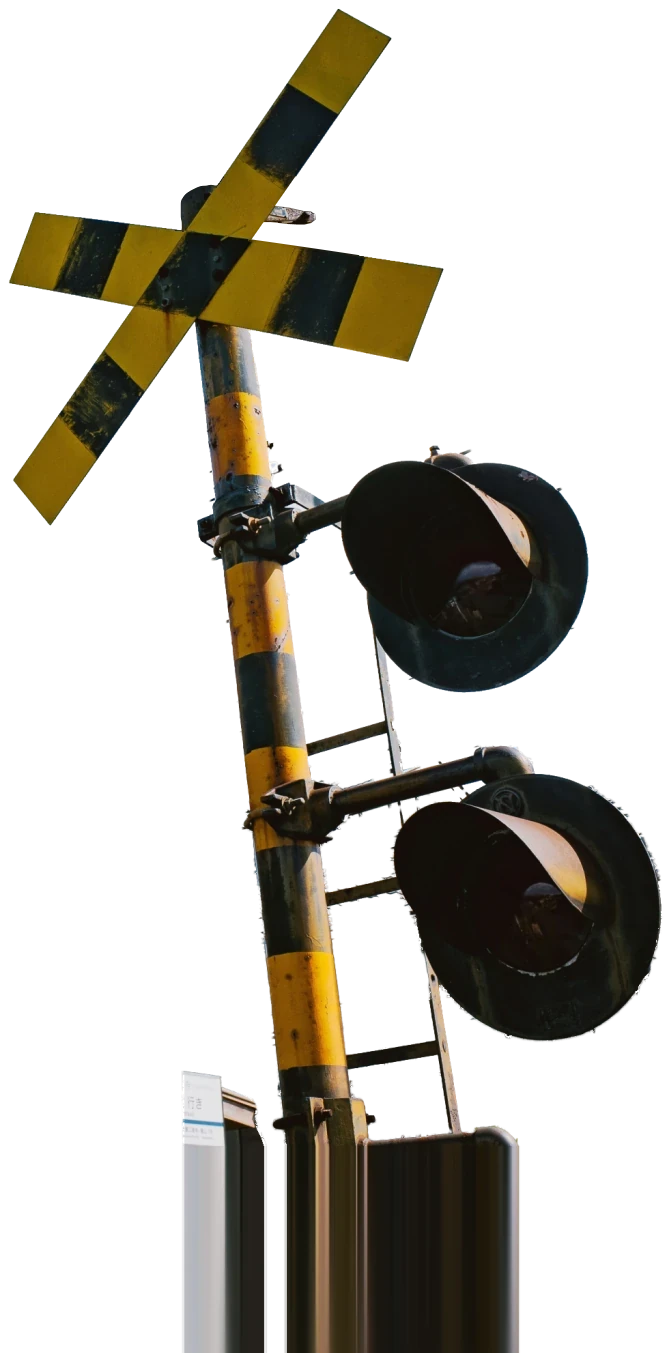
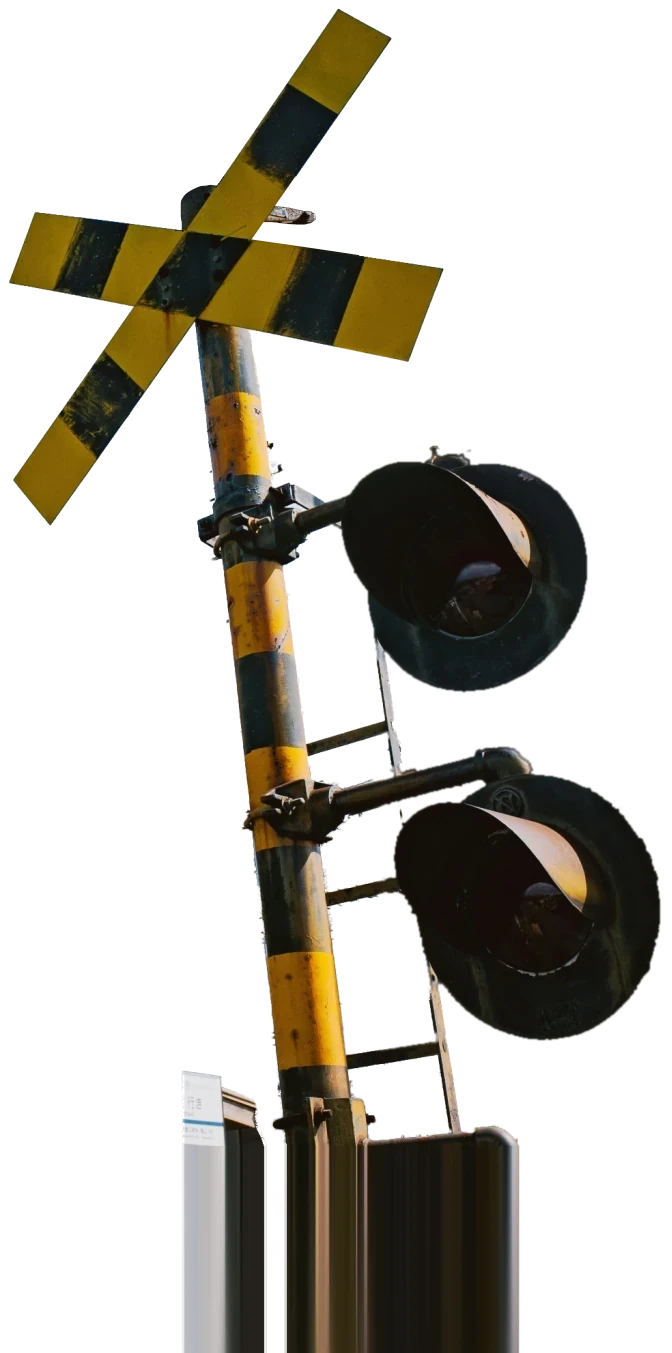
Lab: climb crossing round 1
Claude-Session: https://claude.ai/code/session_01RqENhngNCzDFmJWDZueXGV

diff --git a/tools/depth/bakes/crossing/cumulus.py b/tools/depth/bakes/crossing/cumulus.py
@@ -179,6 +179,16 @@ CLOSE_R, ERODE, FEATHER = 6, 5, (1.6, 2.2)
 # edge, so the outline is carved into the cloud and never pushed out past
 # the HDRI's own texture.
 LOBES = ((70.0, 1.0, 3), (30.0, 1.0, 4), (12.0, 0.95, 5))
+# The tower's lower right (east of RIGHT_LON, under RIGHT_LAT, deg, both
+# eased) faces the sun but is a straight cut and a plumb flank: its outline is
+# rebuilt too, from RIGHT_LOBES, each lobe's seat wandering RIGHT_JIT of its
+# radius in or out, so the side steps down in rounded billows; first it is
+# tapered (RIGHT_TAPER: from lat, to lat, deg in), so it steps in toward the
+# base instead of dropping plumb.
+RIGHT_LON, RIGHT_LAT = (147.0, 150.0), (29.0, 31.0)
+RIGHT_LOBES = ((95.0, 1.15, 13), (40.0, 1.0, 14), (15.0, 0.95, 15))
+RIGHT_JIT = 0.45
+RIGHT_TAPER = (30.0, 20.5, 4.5)
 # FLAT_K, FLAT_D, FLAT_LON: the hazy tail cut off the tower's lower left (see
 # the silhouette); only west of FLAT_LON, where the tail is
 FLAT_K, FLAT_D, FLAT_LON = 0.45, 60, 139.0
@@ -202,11 +212,14 @@ TONE_GAMMA = 1.0  # <1 lifts the mid tones toward the lit white
 # tower (SUN_XY: weight of across, to the right, and of up, both 0..1 over
 # the tower's own extent), its relief facing the sun and its own brightness
 # (SUN_REL, SUN_T), is eased between SUNLIT; the rest of the tower takes its
-# tone in skylight shade, SHADE_T on the ramp (its billows kept), deeper
-# by SHADE_LOW toward its base.
+# tone in skylight shade: each billow a skylight-blue core (SHADE_CORE on the
+# ramp) with a lit crest (SHADE_LIT) and a deeper hollow (SHADE_DEEP), from
+# the HDRI's own billows at full local contrast (SHADE_BANDS), the core
+# deeper by SHADE_LOW toward the base.
 SUN_XY, SUN_REL, SUN_T = (0.6, 0.9), 0.35, 0.25
 SUNLIT = (1.0, 1.4)
-SHADE_T, SHADE_LOW = (0.0, 0.27), 0.4
+SHADE_CORE, SHADE_LIT, SHADE_DEEP, SHADE_LOW = 0.13, 0.4, 0.13, 0.07
+SHADE_BANDS, SHADE_GAIN, SHADE_FLOOR = ((60.0, 0.55), (24.0, 0.3), (8.0, 0.15)), 0.7, 0.03
 CRISP_SIG, CRISP = (1.5, 5.0, 16.0), (0.35, 0.35, 0.15)
 # The tower's own form, lit from the sun (up and right, as in the photo): its
 # silhouette's relief, so the lobes the outline gains are modelled, and the
@@ -440,41 +453,69 @@ if WORK:
 m = ((ae > 0.5) & ~cut).astype(np.uint8)
 m = cv2.morphologyEx(m, cv2.MORPH_OPEN, disk(10))
 del tex, edge_d, cut
-for R, inset, seed in LOBES:
-    rng = np.random.default_rng(seed)
-    hs = cv2.GaussianBlur(m.astype(np.float32), (0, 0), R / 2)
-    nx_ = cv2.Sobel(hs, cv2.CV_32F, 1, 0, ksize=3)
-    ny_ = cv2.Sobel(hs, cv2.CV_32F, 0, 1, ksize=3)
-    nn = np.sqrt(nx_ * nx_ + ny_ * ny_) + 1e-6
-    # (the pockets of sky inside the cloud keep their own shape: only the
-    # outer edge is rebuilt)
-    fl = np.pad(m, 1).copy()
-    cv2.floodFill(fl, np.zeros((fl.shape[0] + 2, fl.shape[1] + 2), np.uint8), (0, 0), 2)
-    pocket = fl[1:-1, 1:-1] == 0
-    lob = cv2.erode((m | pocket).astype(np.uint8), disk(int(R * 0.9)))
-    cs, _ = cv2.findContours(m, cv2.RETR_EXTERNAL, cv2.CHAIN_APPROX_NONE)
-    for c in cs:
-        c = c[:, 0, :]
-        if len(c) < 8:
-            continue
-        seg = np.sqrt((np.diff(c, axis=0, append=c[:1]) ** 2).sum(1))
-        arc = np.concatenate([[0.0], np.cumsum(seg)[:-1]])
-        nxt = rng.uniform(0, R)
-        for i in range(len(c)):
-            if arc[i] < nxt:
+
+
+def lobed(m, w, lobes, jit=0.0):
+    """Rebuild the outer edge of m (uint8) where w is high as a chain of round
+    lobes (lobes: radius, inset, seed per scale; jit: how far each lobe's
+    seat wanders deeper in or out, as a share of its radius)."""
+    for R, inset, seed in lobes:
+        rng = np.random.default_rng(seed)
+        hs = cv2.GaussianBlur(m.astype(np.float32), (0, 0), R / 2)
+        nx_ = cv2.Sobel(hs, cv2.CV_32F, 1, 0, ksize=3)
+        ny_ = cv2.Sobel(hs, cv2.CV_32F, 0, 1, ksize=3)
+        nn = np.sqrt(nx_ * nx_ + ny_ * ny_) + 1e-6
+        # (the pockets of sky inside the cloud keep their own shape: only the
+        # outer edge is rebuilt)
+        fl = np.pad(m, 1).copy()
+        cv2.floodFill(fl, np.zeros((fl.shape[0] + 2, fl.shape[1] + 2), np.uint8), (0, 0), 2)
+        pocket = fl[1:-1, 1:-1] == 0
+        lob = cv2.erode((m | pocket).astype(np.uint8), disk(int(R * 0.9)))
+        cs, _ = cv2.findContours(m, cv2.RETR_EXTERNAL, cv2.CHAIN_APPROX_NONE)
+        for c in cs:
+            c = c[:, 0, :]
+            if len(c) < 8:
                 continue
-            nxt = arc[i] + R * rng.uniform(1.0, 1.6)
-            x, y = int(c[i, 0]), int(c[i, 1])
-            r = R * rng.uniform(0.7, 1.25)
-            dx, dy = nx_[y, x] / nn[y, x], ny_[y, x] / nn[y, x]  # into the cloud
-            cv2.circle(lob, (int(round(x + dx * inset * r)), int(round(y + dy * inset * r))), int(round(r)), 1, -1, cv2.LINE_AA)
-    lob[pocket] = 0
-    # blend in signed distance, so the lobed and the native outline meet
-    # without a seam where lobe_w turns
-    sd_m = cv2.distanceTransform(m, cv2.DIST_L2, 5) - cv2.distanceTransform(1 - m, cv2.DIST_L2, 5)
-    sd_l = cv2.distanceTransform(lob, cv2.DIST_L2, 5) - cv2.distanceTransform(1 - lob, cv2.DIST_L2, 5)
-    m = ((sd_m * (1 - lobe_w) + sd_l * lobe_w) > 0).astype(np.uint8)
-    del hs, nx_, ny_, nn, lob, sd_m, sd_l, fl, pocket
+            seg = np.sqrt((np.diff(c, axis=0, append=c[:1]) ** 2).sum(1))
+            arc = np.concatenate([[0.0], np.cumsum(seg)[:-1]])
+            nxt = rng.uniform(0, R)
+            for i in range(len(c)):
+                if arc[i] < nxt:
+                    continue
+                nxt = arc[i] + R * rng.uniform(1.0, 1.6)
+                x, y = int(c[i, 0]), int(c[i, 1])
+                r = R * rng.uniform(0.7, 1.25)
+                k = inset + (jit * rng.uniform(-1.0, 1.0) if jit else 0.0)
+                dx, dy = nx_[y, x] / nn[y, x], ny_[y, x] / nn[y, x]  # into the cloud
+                cv2.circle(lob, (int(round(x + dx * k * r)), int(round(y + dy * k * r))), int(round(r)), 1, -1, cv2.LINE_AA)
+        lob[pocket] = 0
+        # blend in signed distance, so the lobed and the native outline meet
+        # without a seam where w turns
+        sd_m = cv2.distanceTransform(m, cv2.DIST_L2, 5) - cv2.distanceTransform(1 - m, cv2.DIST_L2, 5)
+        sd_l = cv2.distanceTransform(lob, cv2.DIST_L2, 5) - cv2.distanceTransform(1 - lob, cv2.DIST_L2, 5)
+        m = ((sd_m * (1 - w) + sd_l * w) > 0).astype(np.uint8)
+    return m
+
+
+m = lobed(m, lobe_w, LOBES)
+# The tower's lower right is the straight cut where its puff was parted off
+# at the neck (and, under it, the HDRI's own flank, nearly plumb): it faces
+# the sun, so the pass above leaves it, and on the card it dropped as one
+# near-vertical keyed wall from the crown to the bank. It is rebuilt the same
+# way (RIGHT_LOBES), from bigger lobes whose seats wander in and out
+# (RIGHT_JIT), so the side steps down in rounded billows instead.
+# Its plumb line is tapered first: under RIGHT_TAPER[0] (deg) the side is cut
+# back along a slant that has come RIGHT_TAPER[2] degrees in by
+# RIGHT_TAPER[1], so the lobes step in toward the base as a cumulus's do.
+rows = (SLAT > RIGHT_TAPER[0] - 2) & (SLAT < RIGHT_TAPER[0]) & (m > 0)
+east = float(np.percentile(SLON[rows], 99.5))
+m = (m * (SLON < east - RIGHT_TAPER[2] * smoothstep(RIGHT_TAPER[0], RIGHT_TAPER[1], SLAT))).astype(np.uint8)
+del rows
+rside = smoothstep(*RIGHT_LON, SLON) * (1 - smoothstep(*RIGHT_LAT, SLAT)) * near_t
+rside = smoothstep(0.3, 0.7, cv2.GaussianBlur(rside, (0, 0), 12))
+m = lobed(m, rside, RIGHT_LOBES, RIGHT_JIT)
+lobe_w = np.maximum(lobe_w, rside)
+del rside
 # (and no island the lobes leave standing off the edge)
 nI, lI, stI, _ = cv2.connectedComponentsWithStats(m, connectivity=8)
 m = np.where((stI[:, cv2.CC_STAT_AREA] < 20000)[lI], 0, m).astype(np.float32)
@@ -515,7 +556,16 @@ del mb, lgR
 top = float(np.percentile(lg[inside], 97))
 low = float(np.percentile(lg[inside], 3))
 t = (lg - low) / (top - low)
-del lg
+# The billows for the shade: the HDRI's log luminance band-passed at the
+# lobes' scale and at the billows' (SHADE_BANDS: sigma px, weight), each over
+# its own local RMS, so every lobe in the lower body comes out at the same
+# full contrast as the crown's, however hazy and flat the HDRI is there.
+bil = np.zeros_like(t)
+for sg, w in SHADE_BANDS:
+    hp = lg - mblur(lg, sg)
+    bil += w * np.tanh(SHADE_GAIN * hp / (np.sqrt(mblur(hp * hp, 1.5 * sg)) + SHADE_FLOOR))
+bil = cv2.GaussianBlur(bil, (0, 0), 1.5)
+del lg, hp
 # The silhouette's relief (its blurred coverage, at the scale of the big
 # lobes, the lobes and the billows), lit from the sun's side: the turrets'
 # upper right faces catch the sun, their lower left falls into shade, and
@@ -537,15 +587,22 @@ t = np.where(t > 0, np.abs(t) ** TONE_GAMMA, t)
 # the tower to the right and, more, up it (its own extent, 0..1 each way),
 # and with the relief and brightness of each billow, so the light ends on
 # the lobes' own forms rather than along a line. Under it the tower is in
-# skylight shade, its billows kept as relief within SHADE_T.
+# skylight shade, its billows kept at full contrast (bil, above).
 lo_a, lo_b = np.percentile(SLON[inside], (1, 99))
 la_a, la_b = np.percentile(SLAT[inside], (1, 99))
 xn = np.clip((SLON - lo_a) / (lo_b - lo_a), 0, 1)
 yn = np.clip((SLAT - la_a) / (la_b - la_a), 0, 1)
 sun = smoothstep(*SUNLIT, SUN_XY[0] * xn + SUN_XY[1] * yn + SUN_REL * rel + SUN_T * (t - 0.6))
 del xn
-# (the shade deepens down the tower, by SHADE_LOW at its base, into the bank)
-t = SHADE_T[0] + (SHADE_T[1] - SHADE_T[0]) * np.clip(t, 0, 1) * (1 - SHADE_LOW * (1 - yn)) * (1 - sun) + t * sun
+# In the shade each billow has a lit edge and a skylight-blue core: the core
+# at SHADE_CORE on the ramp (between #7f9bbd and #9fb6d0), the billows'
+# crests lit up by SHADE_LIT, their hollows down by SHADE_DEEP, and the
+# silhouette's relief modelling the lobes as on the crown. The core deepens
+# down the tower, by SHADE_LOW at its base, into the bank; the billows keep
+# their full contrast all the way down.
+ts = SHADE_CORE - SHADE_LOW * (1 - yn) + np.where(bil > 0, SHADE_LIT, SHADE_DEEP) * bil + FORM * rel
+t = ts * (1 - sun) + t * sun
+del ts, bil
 del yn
 if WORK:
     os.makedirs(WORK, exist_ok=True)

diff --git a/tools/depth/bakes/crossing/lamphood.py b/tools/depth/bakes/crossing/lamphood.py
@@ -1,0 +1,113 @@
+"""Step 7: clean the signal lamps' outline on the signal card (p5).
+
+    python3 -I tools/depth/bakes/crossing/lamphood.py <srcdir> <outdir>
+
+The two lamps' backplates and hoods were keyed against the photo's milky sky:
+their rims carry a fringe of one- and two-px dark nubs (the key catching the
+backplate's rivets and the grain of the sky at the edge) and a pale line of
+that old sky. Against the cobalt and the cumulus, once the cards part, the
+fringe reads as bristles round a cut-out, clearest on the lower lamp.
+
+  matte     inside LAMP_BOXES, on the outline of the lamps' thick bodies only
+            (the opened silhouette, so the ladder rails and the rods keep
+            their own edges), the alpha is opened (a grey opening of radius
+            OPEN_R: every nub narrower than its diameter goes), pulled in by
+            ERODE_R px and feathered again (FEATHER, sigma px). It only ever
+            loses alpha.
+  colour    every px within RIM of the new edge takes the colour of the lamp
+            just inside it (push-pull from the body), so no pale line of the
+            old sky stays on the rim.
+  mattes    the signal's matte (plane 6 of the strip) gets the same alpha.
+
+Run it after crossbuck.py and townmatte.py, from a copy of their output: it
+is not idempotent in place. Reads p5.webp and mattes.png from <srcdir>;
+writes p5.webp and mattes.png to <outdir>.
+"""
+import os
+import sys
+
+import cv2
+import numpy as np
+from PIL import Image
+
+sys.path.insert(0, os.path.dirname(os.path.abspath(__file__)))
+from common import disk, pushpull, smoothstep  # noqa: E402
+
+SRC, OUT = sys.argv[1:3]
+if os.path.abspath(SRC) == os.path.abspath(OUT):
+    sys.exit("read from a copy of the cards: this step is not idempotent in place")
+WORK = os.environ.get("LAMPHOOD_WORK")  # previews, when set
+EW, EH = 2048, 1356
+MATTE_W, MATTE_H = 512, 339
+SIGNAL_MATTE = 6  # the signal's index in the matte strip (the cumulus is 1)
+P5_RECT = [0.50732, 0.15192, 0.83545, 1.14971]  # the engine's PLANES
+# p5 px: the boxes the two lamps (backplate, hood, lens) lie in, x0 y0 x1 y1
+LAMP_BOXES = ((330, 425, 600, 710), (380, 730, 672, 1050))
+THICK_R = 6  # the lamps' bodies: what survives an opening of this radius
+BAND = 6  # px: how far out from the thick body the outline is reworked
+OPEN_R, ERODE_R, FEATHER = 2, 1.5, 0.8
+RIM = 2.5  # px inside the new edge whose colour is carried out from the body
+
+
+p5 = np.asarray(Image.open(os.path.join(SRC, "p5.webp")).convert("RGBA"), np.float32) / 255
+col, a = p5[..., :3].copy(), p5[..., 3].copy()
+h, w = a.shape
+
+# where to work: the outline of the lamps' thick bodies, inside the boxes
+box = np.zeros((h, w), np.float32)
+for x0, y0, x1, y1 in LAMP_BOXES:
+    box[y0:y1, x0:x1] = 1
+box = cv2.GaussianBlur(box, (0, 0), 4)
+thick = cv2.morphologyEx((a > 0.5).astype(np.uint8), cv2.MORPH_OPEN, disk(THICK_R))
+near = cv2.dilate(thick, disk(BAND)).astype(np.float32)
+wgt = box * cv2.GaussianBlur(near, (0, 0), 1.5)
+
+# the new outline: opened (no nubs), pulled in, feathered; never more alpha
+ao = cv2.morphologyEx(a, cv2.MORPH_OPEN, disk(OPEN_R))
+d_in = cv2.distanceTransform((ao > 0.5).astype(np.uint8), cv2.DIST_L2, 5)
+d_out = cv2.distanceTransform((ao <= 0.5).astype(np.uint8), cv2.DIST_L2, 5)
+sd = d_in - d_out - ERODE_R  # signed distance to the pulled-in edge
+an = cv2.GaussianBlur(np.clip(sd + 0.5, 0, 1), (0, 0), FEATHER)
+an = np.minimum(an, ao)
+a_new = np.minimum(a, a * (1 - wgt) + an * wgt)
+print("lamp outline: alpha taken off", round(float((a - a_new).sum()), 1), "px")
+
+# the colour on the new edge: the lamp's own, carried out from inside
+# (the pale line of old sky lies up to RIM px inside the edge, at full alpha)
+d_e = cv2.distanceTransform((a_new > 0.5).astype(np.uint8), cv2.DIST_L2, 5)
+fill = pushpull(col, (d_e >= RIM + 1).astype(np.float32))
+edge = (1 - smoothstep(RIM, RIM + 1, d_e)) * (a_new > 0) * wgt
+col_new = col * (1 - edge[..., None]) + fill * edge[..., None]
+
+rng = np.random.default_rng(7)
+dith = (rng.random(col.shape) - rng.random(col.shape)) / 255
+changed = (np.abs(a_new - a) > 0) | (edge > 0)
+out = np.dstack([np.where(changed[..., None], col_new + dith, col), a_new])
+q = np.clip(np.round(out * 255), 0, 255).astype(np.uint8)
+q[..., :3] = np.where(q[..., 3:] == 0, q[..., :3] * 0, q[..., :3])
+os.makedirs(OUT, exist_ok=True)
+Image.fromarray(q, "RGBA").save(os.path.join(OUT, "p5.webp"), quality=90, alpha_quality=100, method=6, exact=False)
+print("wrote p5.webp")
+
+# ---- the matte strip: the signal's plane
+strip = np.asarray(Image.open(os.path.join(SRC, "mattes.png")).convert("L"), np.float32) / 255
+ox, oy = round(P5_RECT[0] * EW), round(P5_RECT[1] * EH)
+full = np.zeros((EH, EW), np.float32)
+full_old = np.zeros((EH, EW), np.float32)
+hh, ww = min(h, EH - oy), min(w, EW - ox)
+full[oy:oy + hh, ox:ox + ww] = a_new[:hh, :ww]
+full_old[oy:oy + hh, ox:ox + ww] = a[:hh, :ww]
+dm = cv2.resize(full - full_old, (MATTE_W, MATTE_H), interpolation=cv2.INTER_AREA)
+k = SIGNAL_MATTE
+strip[k * MATTE_H:(k + 1) * MATTE_H] = np.clip(strip[k * MATTE_H:(k + 1) * MATTE_H] + dm, 0, 1)
+Image.fromarray(np.clip(np.round(strip * 255), 0, 255).astype(np.uint8), "L").save(os.path.join(OUT, "mattes.png"), optimize=True)
+print("wrote mattes.png")
+
+if WORK:
+    os.makedirs(WORK, exist_ok=True)
+    sky = np.array([0.47, 0.7, 0.9], np.float32)
+    for nm, aa, cc in (("before", a, col), ("after", a_new, col_new)):
+        pv = cc * aa[..., None] + sky * (1 - aa[..., None])
+        x0, y0, x1, y1 = LAMP_BOXES[1]
+        pv = cv2.resize(pv[y0:y1, x0:x1], None, fx=3, fy=3, interpolation=cv2.INTER_NEAREST)
+        cv2.imwrite(os.path.join(WORK, "lamp-" + nm + ".png"), (np.clip(pv[..., ::-1], 0, 1) * 255).astype(np.uint8))

diff --git a/tools/depth/bakes/crossing/bake.py b/tools/depth/bakes/crossing/bake.py
@@ -41,7 +41,8 @@ crossbuck.py takes the pale hood out from behind the crossbuck head on
 p5.webp (and photo.webp, mattes.png) and rebuilds the pole cap's outline,
 and townmatte.py keys the old sky out of the town card's top (p1.webp and
 its matte), ends it on the ridge tiles and refills what the signal hides
-there from the town alone.
+there from the town alone, and lamphood.py takes the bristly fringe off the
+signal lamps' outline on p5.webp (and its matte).
 """
 import sys
 import os
